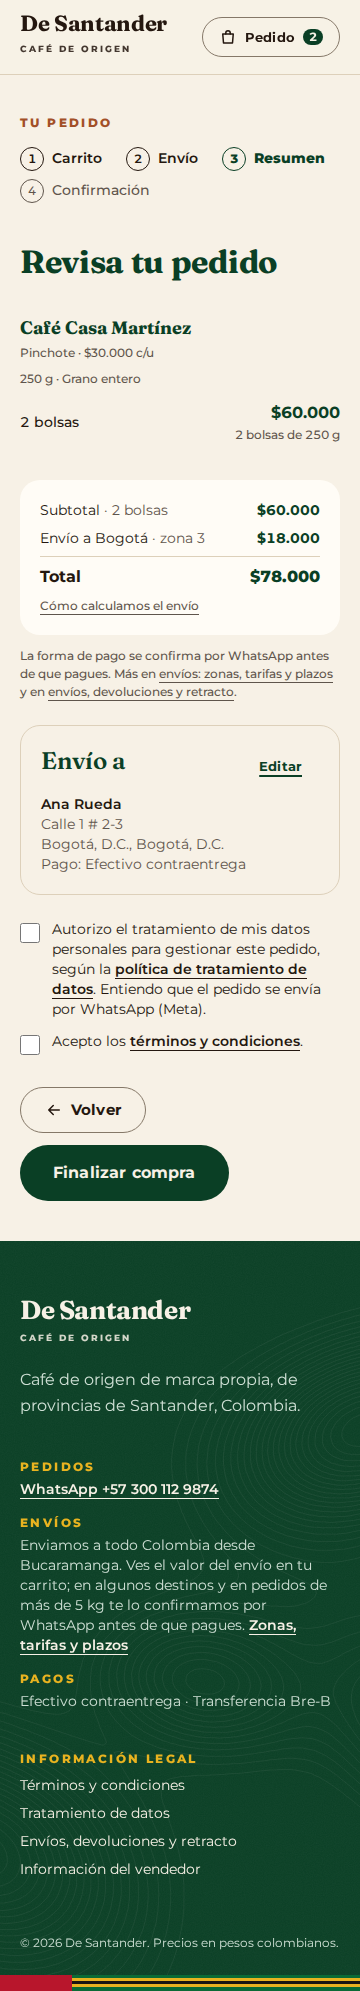
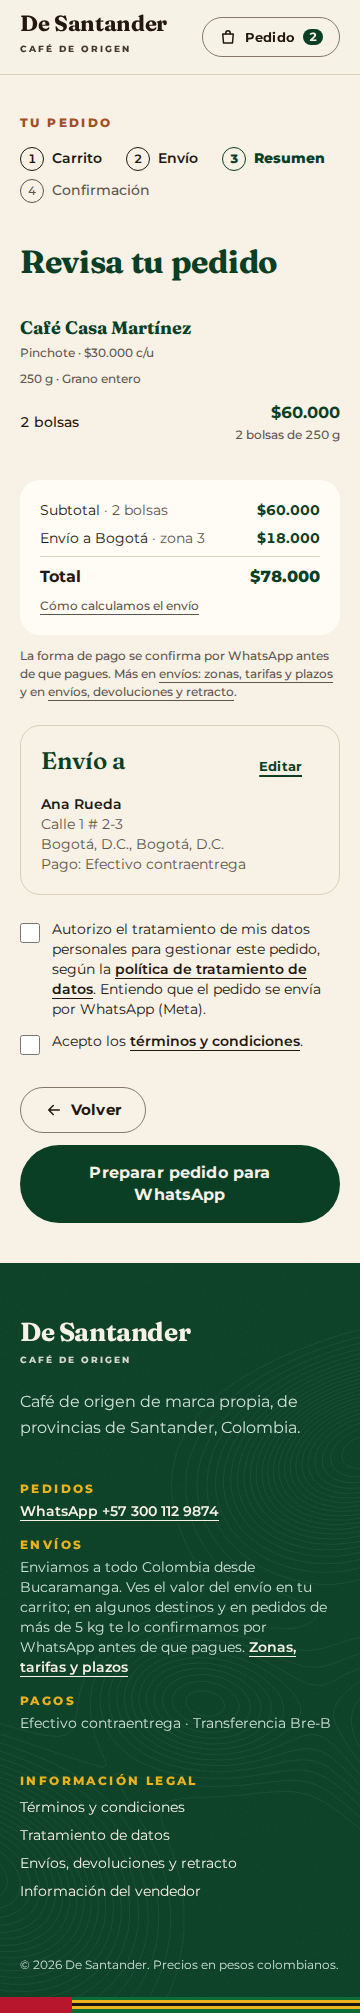
feat(checkout): botón «Preparar pedido para WhatsApp» (LEG-037) y ajuste de pruebas e2e

diff --git a/e2e/envios.spec.ts b/e2e/envios.spec.ts
@@ -51,7 +51,7 @@ async function completarYFinalizar(page: Page) {
   await expect(page.getByRole("heading", { name: "Revisa tu pedido" })).toBeVisible();
   await page.getByRole("checkbox", { name: /Autorizo el tratamiento/ }).check();
   await page.getByRole("checkbox", { name: /Acepto los términos/ }).check();
-  await page.getByRole("button", { name: "Finalizar compra" }).click();
+  await page.getByRole("button", { name: "Preparar pedido para WhatsApp" }).click();
   await expect(page.getByRole("heading", { name: "Tu pedido está listo para enviar por WhatsApp" })).toBeVisible();
   const href = (await page.getByRole("link", { name: /Enviar por WhatsApp/ }).getAttribute("href")) ?? "";
   expect(href.startsWith("https://wa.me/573001129874?text=")).toBe(true);
@@ -155,7 +155,7 @@ test.describe("envío por zonas: por cotizar", () => {
     await expect(totalDe(page)).toContainText("Total sin envío");
     await page.getByRole("checkbox", { name: /Autorizo el tratamiento/ }).check();
     await page.getByRole("checkbox", { name: /Acepto los términos/ }).check();
-    await page.getByRole("button", { name: "Finalizar compra" }).click();
+    await page.getByRole("button", { name: "Preparar pedido para WhatsApp" }).click();
     await expect(page.getByTestId("texto-confirmacion")).toContainText("Tu pedido queda en firme cuando aceptas ese valor.");
     await expect(page.getByTestId("texto-confirmacion")).toContainText("Tu pedido queda en firme");
     const href = (await page.getByRole("link", { name: /Enviar por WhatsApp/ }).getAttribute("href")) ?? "";
@@ -192,8 +192,8 @@ test.describe("envío por zonas: por cotizar", () => {
     await expect(totalDe(page)).not.toContainText("sin envío");
     await page.getByRole("checkbox", { name: /Autorizo el tratamiento/ }).check();
     await page.getByRole("checkbox", { name: /Acepto los términos/ }).check();
-    await page.getByRole("button", { name: "Finalizar compra" }).click();
-    await expect(page.getByTestId("texto-confirmacion")).toContainText("Después te respondemos para confirmarlo");
+    await page.getByRole("button", { name: "Preparar pedido para WhatsApp" }).click();
+    await expect(page.getByTestId("texto-confirmacion")).toContainText("Te respondemos para confirmarlo");
     await expect(page.getByTestId("texto-confirmacion")).not.toContainText("Tu pedido queda en firme");
     await expect(page.getByTestId("texto-confirmacion")).not.toContainText("queda en firme");
   });

diff --git a/e2e/pedido.spec.ts b/e2e/pedido.spec.ts
@@ -56,12 +56,12 @@ test.describe("pedido", () => {
     const terminos = page.getByRole("checkbox", { name: /Acepto los términos/ });
     await expect(autorizacion).not.toBeChecked();
     await expect(terminos).not.toBeChecked();
-    await page.getByRole("button", { name: "Finalizar compra" }).click();
+    await page.getByRole("button", { name: "Preparar pedido para WhatsApp" }).click();
     await expect(page.getByText("Debes autorizar el tratamiento de tus datos")).toBeVisible();
     await expect(page.getByText("Debes aceptar los términos")).toBeVisible();
     await autorizacion.check();
     await terminos.check();
-    await page.getByRole("button", { name: "Finalizar compra" }).click();
+    await page.getByRole("button", { name: "Preparar pedido para WhatsApp" }).click();
 
     // 4. Confirmación
     await expect(page.getByRole("heading", { name: "Tu pedido está listo para enviar por WhatsApp" })).toBeVisible();

diff --git a/src/ui/componentes/checkout/flujo-pedido.tsx b/src/ui/componentes/checkout/flujo-pedido.tsx
@@ -269,7 +269,7 @@ function Contenido() {
             <Boton variante="secundario" onClick={() => irA("envio")}>
               <IconoFlechaAtras className="ds-btn__icon" /> Volver
             </Boton>
-            <Boton tamano="lg" onClick={finalizar}>Finalizar compra</Boton>
+            <Boton tamano="lg" className="max-sm:w-full max-sm:!whitespace-normal" onClick={finalizar}>Preparar pedido para WhatsApp</Boton>
           </div>
         </section>
       )}
